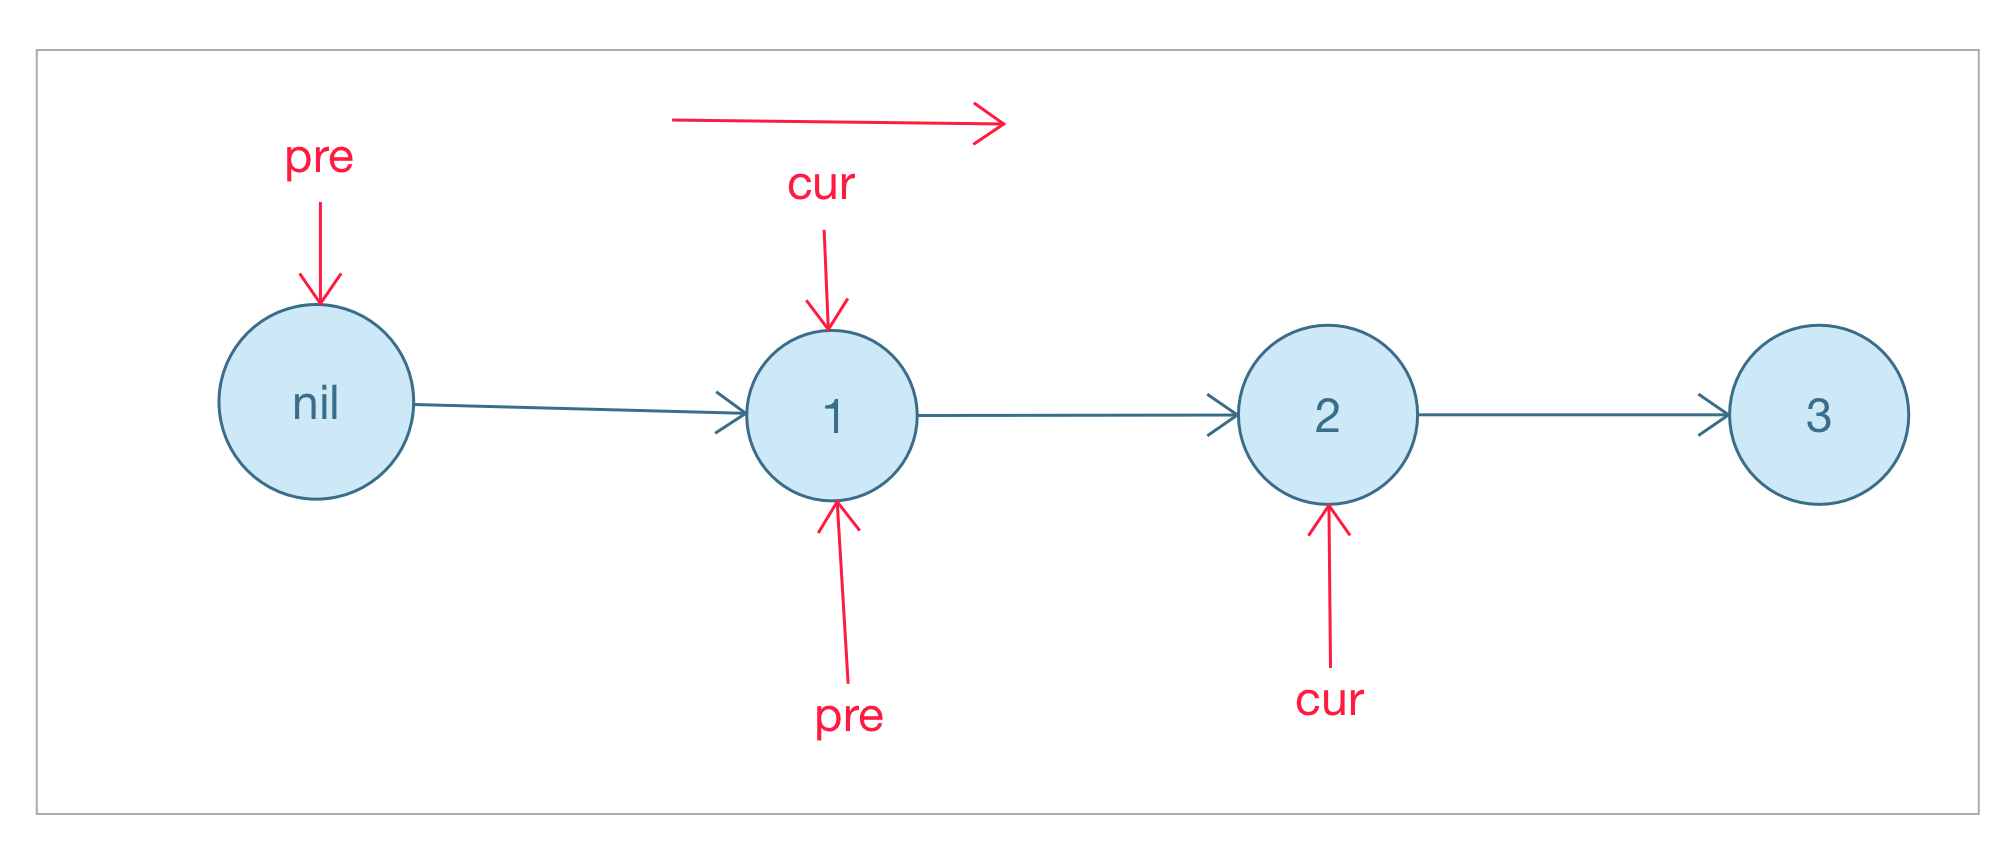
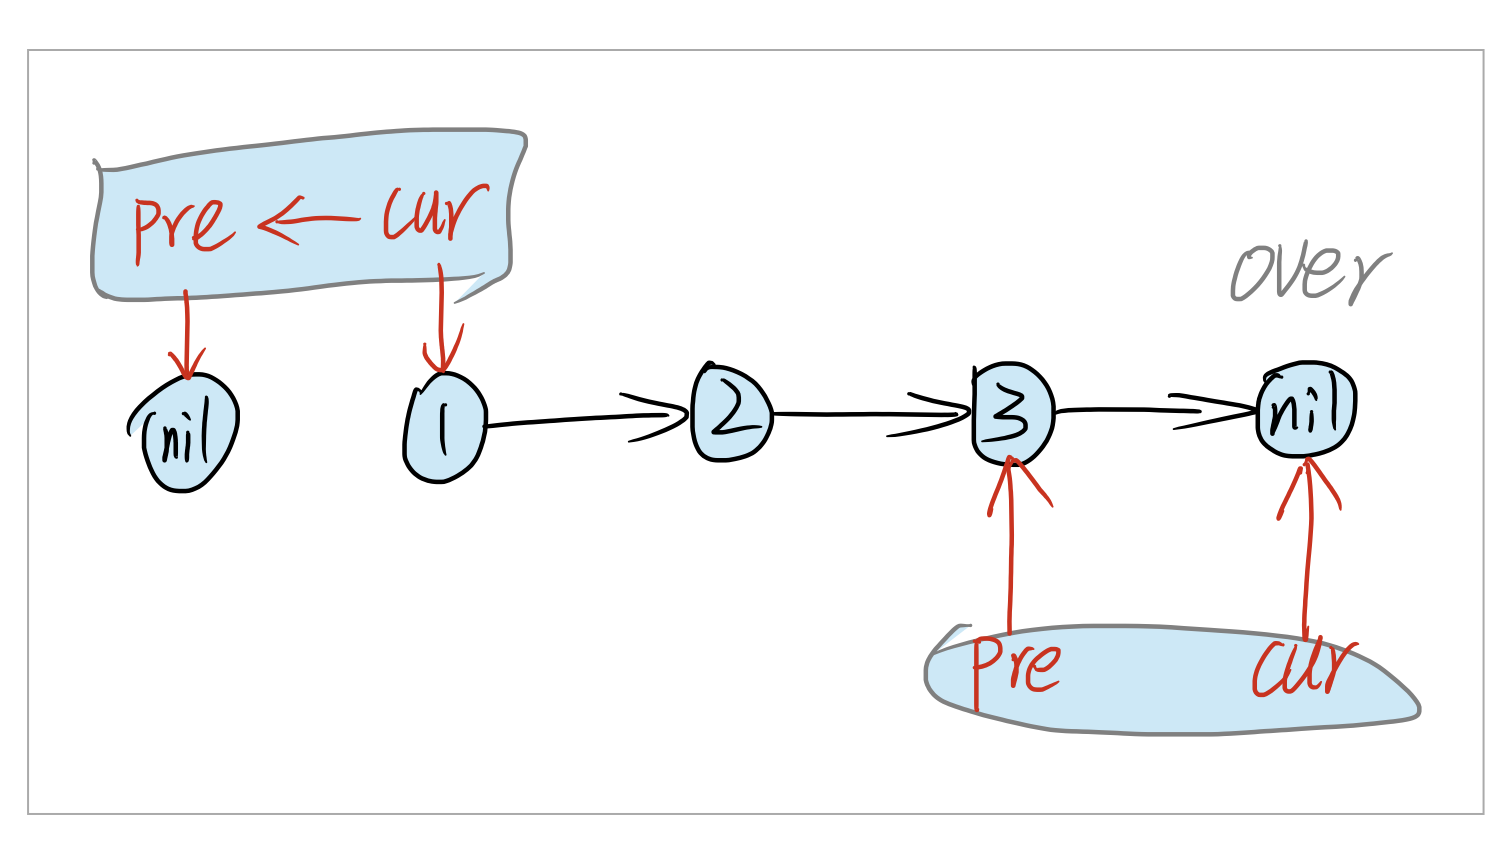
206

diff --git a/Solutions/Go/206.go b/Solutions/Go/206.go
@@ -39,7 +39,7 @@ func reverseList(head *ListNode) *ListNode {
 */
 func reverseList2(head *ListNode) *ListNode {
 	// 退出条件
-	if head == nil || head.Next == nil { // head 用于递归出栈判断，head.Next 用于递归入栈判断
+	if head == nil || head.Next == nil { // head 用于 [] 边界判断，head.Next 用于递归判断
 		return head
 	}
 

diff --git a/Notes/206.md b/Notes/206.md
@@ -1,12 +1,13 @@
 # 迭代
 
-两个指针
+1. 两个指针
+2. 从前到后逐个倒转
 
-![image-20190325204117875](assets/206-1.png)
+![image-20190326010912442](assets/206-1.png)
 
 # 递归
 
 1. 先找到最后一个节点
 2. 再倒转链表
 
-![image-20190325204303315](assets/206-2.png)
+![image-20190326010958356](assets/206-2.png)
